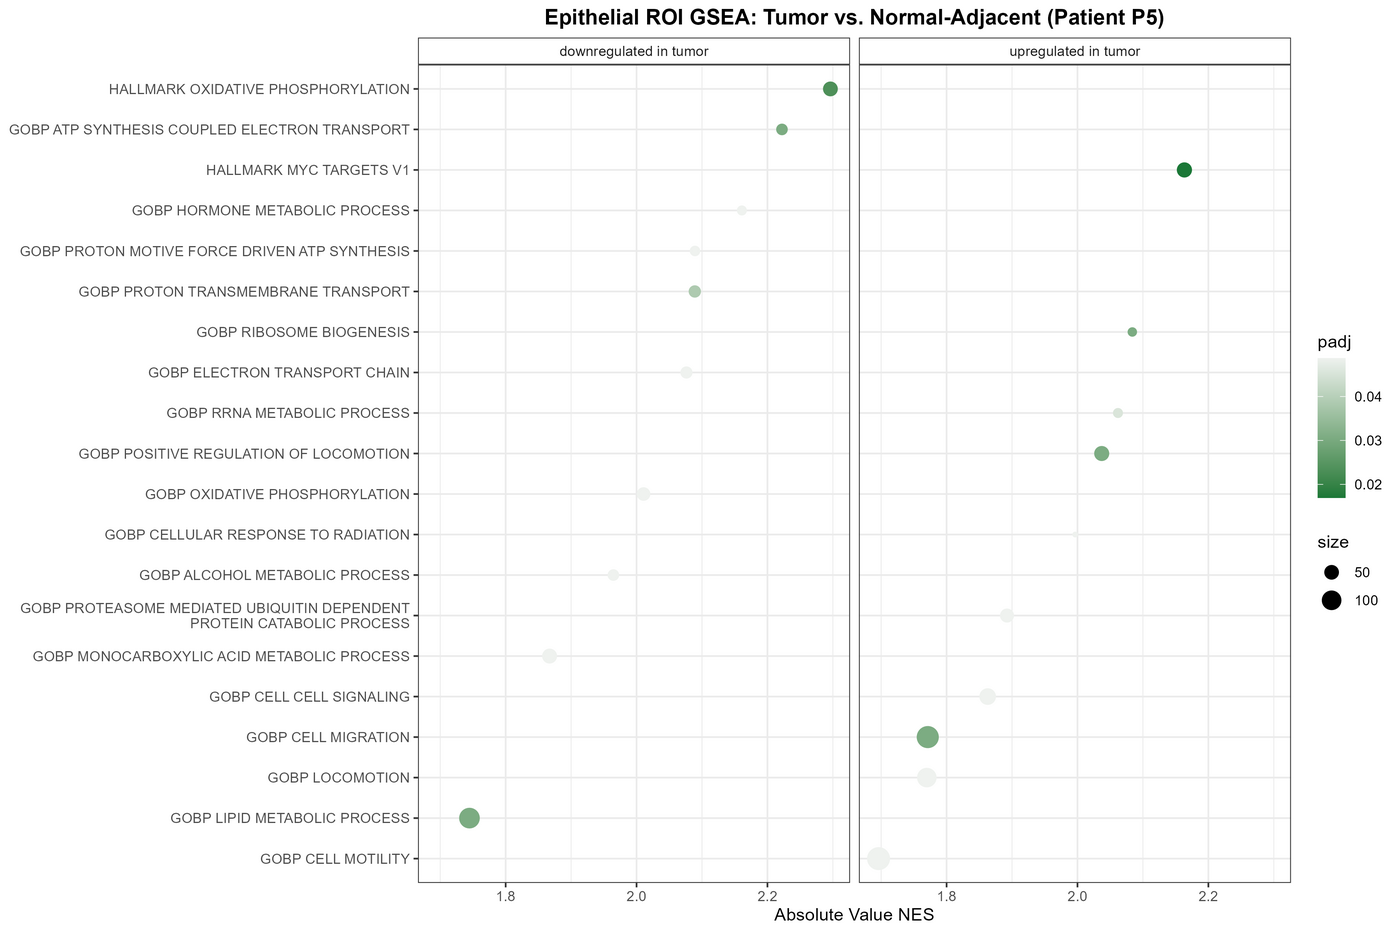
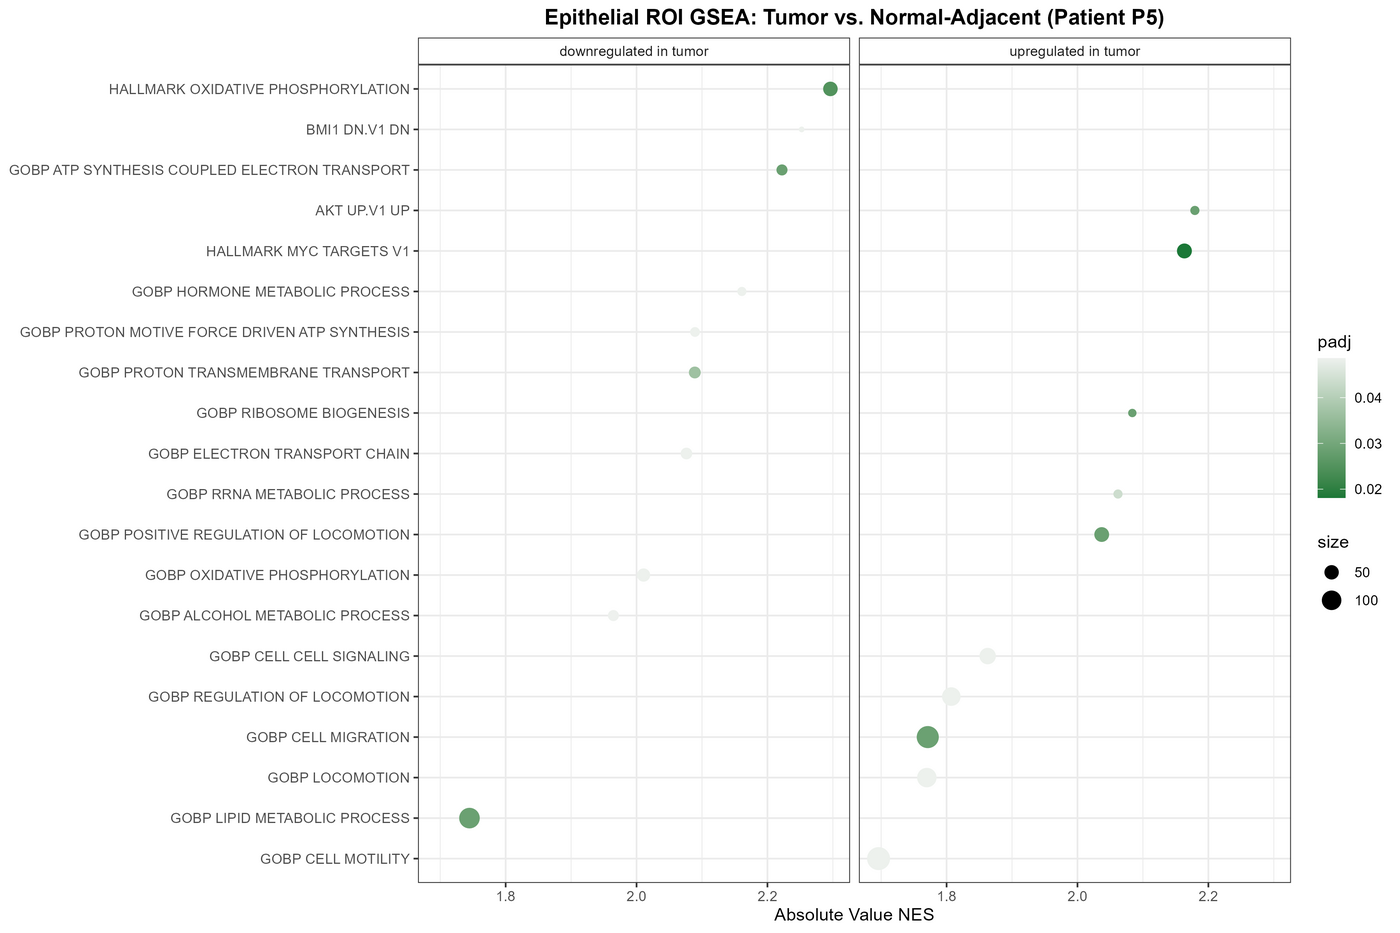
Add C6 oncogenic gene sets to GSEA; cite MYC/AKT driver refs
Extends the GSEA pass (README + notebook) with MSigDB C6 (oncogenic
perturbation signatures) alongside the existing Hallmark + GO:BP run.
821 of 7,777 loaded gene sets now clear fgseaMultilevel's size filter
and get tested (up from 768), with 111 significant at padj <= 0.2 (up
from 106). Six of those are C6 hits; AKT_UP.V1_UP is the strongest
(padj = 0.028) and directly relevant to CRC's PI3K/AKT axis.

Added He et al. 1998 (Science) and Fearon 2011 (Annu Rev Pathol) as
citations for the Wnt/APC-MYC and PI3K/AKT driver claims, per user
request.

Also documents, rather than hides, a real limitation: C6's more
specific single-oncogene signatures (individual KRAS/EGFR/RAF/MEK sets,
MYC_UP.V1_UP) mostly have fewer than 15 member genes among the 1,123
DE-tested genes this ranking is built from, so fgseaMultilevel can't
test them at all -- untestable here, not a negative result.

Incidentally also syncs a previously-unpushed with_ties=FALSE fix on
the top_deg_gene selection (prevents a vector-length crash in ggsave
if genes tie for smallest p_val_adj).

Claude-Session: https://claude.ai/code/session_017P1qYiztCiWJ4Rpv34erkn

diff --git a/README.md b/README.md
@@ -122,16 +122,30 @@ uniformly across the tissue (* T cells, NK (Natural Killer) cells, and ILCs (Inn
 
 **GSEA on the tumor-vs-normal DE genes recovers textbook CRC biology.**
 Ranking all 1,123 DE-tested genes from the epithelial ROI by effect size
-and running `fgseaMultilevel` against MSigDB Hallmark + GO:BP (106 of 768
-tested pathways significant at padj <= 0.2) surfaces several independent,
-well-established cancer hallmarks that nothing in the pipeline was told to
-expect: MYC target genes up in tumor (Wnt/APC-driven MYC activation is one
-of the best-characterized drivers in CRC), oxidative phosphorylation and
-electron-transport-chain gene sets down in tumor (the Warburg effect), and
-ribosome biogenesis / rRNA metabolism plus cell migration / locomotion up
-in tumor (proliferation and invasion signatures):
+and running `fgseaMultilevel` against MSigDB Hallmark + GO:BP + C6
+(oncogenic signatures) -- 111 of 821 tested pathways significant at padj
+<= 0.2 -- surfaces several independent, well-established cancer hallmarks
+that nothing in the pipeline was told to expect: MYC target genes
+(Hallmark, padj = 0.02) and an AKT-activation signature (C6 `AKT_UP.V1_UP`,
+padj = 0.03) up in tumor -- Wnt/APC-driven MYC activation and PI3K/AKT
+signaling are two of the best-characterized drivers in CRC ([He et al.
+1998](https://pubmed.ncbi.nlm.nih.gov/9727977/); [Fearon
+2011](https://www.annualreviews.org/content/journals/10.1146/annurev-pathol-011110-130235))
+-- oxidative phosphorylation and electron-transport-chain gene sets down
+in tumor (the Warburg effect), and ribosome biogenesis / rRNA metabolism
+plus cell migration / locomotion up in tumor (proliferation and invasion
+signatures):
 
 ![GSEA dotplot, tumor vs. normal-adjacent epithelium](docs/img/gsea_dotplot.png)
+
+C6's more specific oncogene-perturbation signatures -- individual KRAS,
+EGFR, RAF and MEK sets, `MYC_UP.V1_UP` -- mostly couldn't be evaluated
+here: most have fewer than 15 of their member genes among the 1,123
+DE-tested genes, which is `fgseaMultilevel`'s minimum gene-set size to run
+at all. That's a limitation of ranking on only the DE-tested subset rather
+than the full transcriptome, not a null result -- they were untestable,
+not untested-and-negative. Of the few with enough overlap to test
+(`RAF_UP`, `EGFR_UP`, `MEK_UP`, `KRAS.DF`), none reached significance.
 
 That convergence with known biology -- from a pipeline that never sees a
 "cancer" label until the deconvolution reference is loaded -- is the
